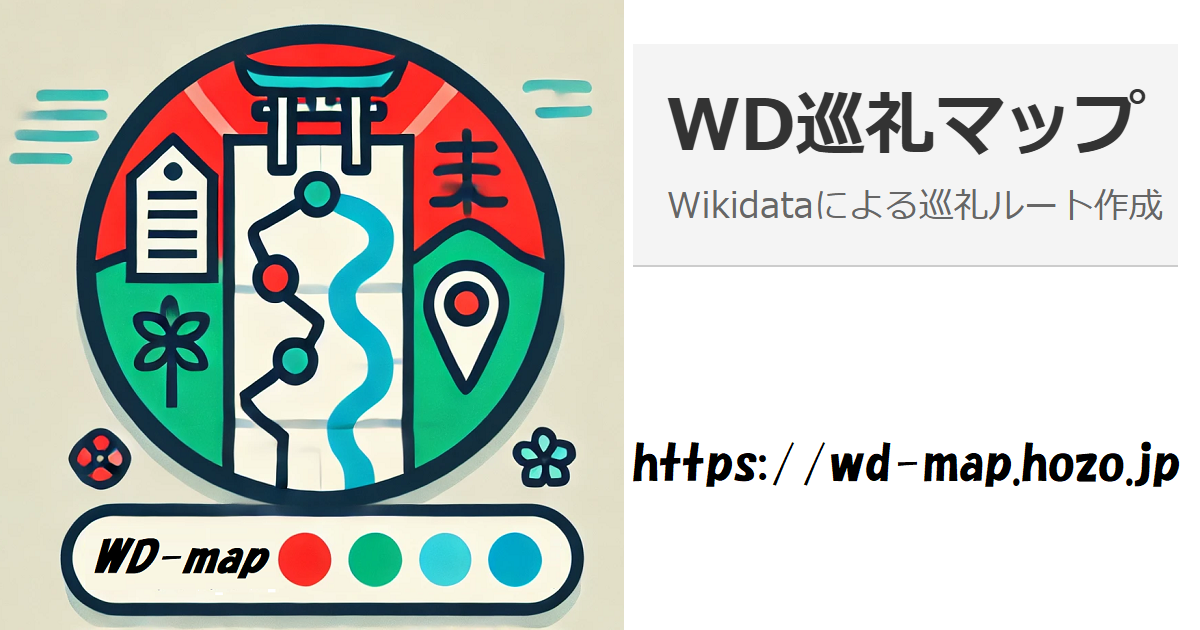
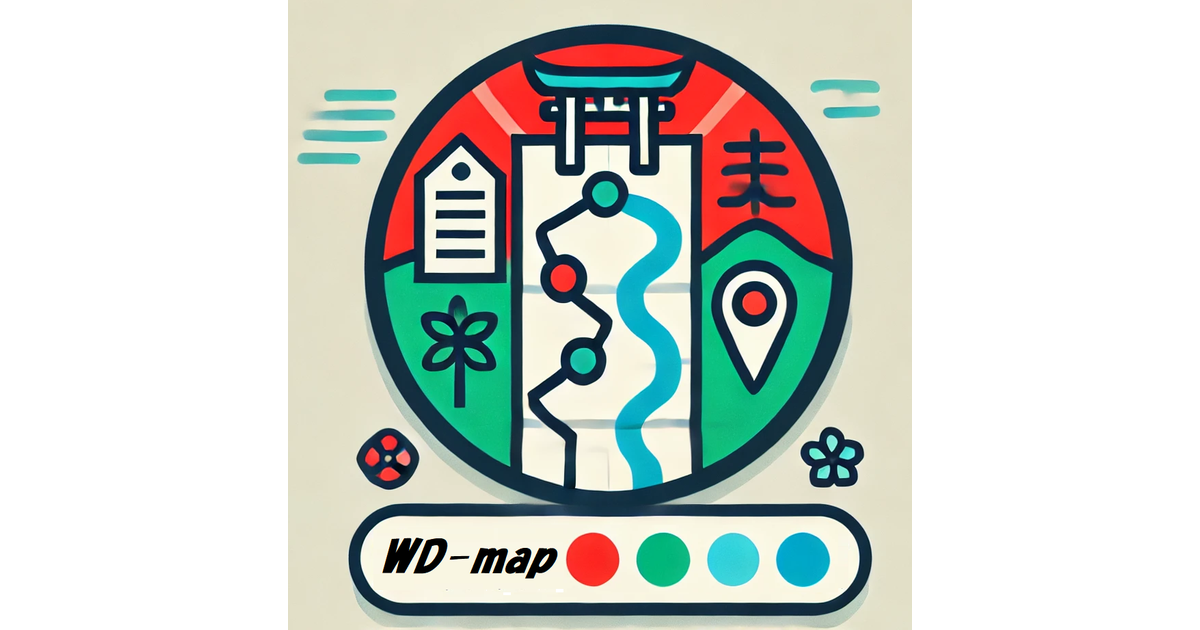
OGP調整

diff --git a/index.html b/index.html
@@ -2,14 +2,14 @@
 <html lang="ja">
 
 <head>
-<meta charset="UTF-8">
-<meta name="viewport" content="width=device-width, initial-scale=1.0">
-<meta http-equiv="X-UA-Compatible" content="ie=edge">
-<title>WD巡礼マップ - Wikidataによる巡礼ルート作成</title>
+    <meta charset="UTF-8">
+    <meta name="viewport" content="width=device-width, initial-scale=1.0">
+    <meta http-equiv="X-UA-Compatible" content="ie=edge">
+    <title>WD巡礼マップ - Wikidataによる巡礼ルート作成</title>
 
-<link rel="icon" href="image/wd-map.ico" type="image/x-icon">
-<link rel="shortcut icon" href="image/wd-map.ico" type="image/x-icon">
-<link rel="apple-touch-icon" href="image/wd-map-icon.png"> <!-- iOS用 -->
+    <link rel="icon" href="image/wd-map.ico" type="image/x-icon">
+    <link rel="shortcut icon" href="image/wd-map.ico" type="image/x-icon">
+    <link rel="apple-touch-icon" href="image/wd-map-icon.png"> <!-- iOS用 -->
 
     <!-- OGPタグ -->
     <meta property="og:title" content="WD巡礼マップ - Wikidataによる巡礼ルート作成">
@@ -27,87 +27,88 @@
     <meta name="twitter:image" content="https://wd-map.hozo.jp/image/WD-map-OGP.png"> <!-- ロゴ画像のURL -->
 
 
-<link rel="stylesheet" href="style.css">
-<script src="js/sparql-min.js"></script> 
-<script src="js/wd-map.js"></script> 
+    <link rel="stylesheet" href="style.css">
+    <script src="js/sparql-min.js"></script>
+    <script src="js/wd-map.js"></script>
 </head>
 
 <body>
-<header id="head"  class="container">
-	<img src="image/WD-map.png" alt="WD-map ロゴ" class="logo">
-    <div class="text-container">
-        <div class="main-title">WD巡礼マップ</div>
-        <div class="sub-title">Wikidataによる巡礼ルート作成</div>
-    </div>
-    <!-- <a href="/how-to-use" class="nav-link">About</a> -->
-</header>
+    <header id="head" class="container">
+        <img src="image/WD-map.png" alt="WD-map ロゴ" class="logo">
+        <div class="text-container">
+            <div class="main-title">WD巡礼マップ</div>
+            <div class="sub-title">Wikidataによる巡礼ルート作成</div>
+        </div>
+        <!-- <a href="/how-to-use" class="nav-link">About</a> -->
+    </header>
 
-<!-- 検索条件設定の領域 -->
-<div id="menu" class="container">
-	<div style="margin-top:4px;">
-        <p>Wikidataに登録されている位置情報をもとに<b>「いろんな分類のMAP」</b>を作成します．<br>
-        →作成例）「<a href="https://w.wiki/BXg9" target="_blank">一の宮マップ</a>」 
-        「<a href="https://w.wiki/BXgq"target="_blank">世界の国際空港</a>」
+    <!-- 検索条件設定の領域 -->
+    <div id="menu" class="container">
+        <div style="margin-top:4px;">
+            <p>Wikidataに登録されている位置情報をもとに<b>「いろんな分類のMAP」</b>を作成します．<br>
+                →作成例）「<a href="https://w.wiki/BXg9" target="_blank">一の宮マップ</a>」
+                「<a href="https://w.wiki/BXgq" target="_blank">世界の国際空港</a>」
+            </p>
+
+            <!-- 生成したMAPリスト表示用の領域 -->
+            <div id="map-list_box" style=" display: none;  ">
+                <h3>作成したMAP</h3>
+                <div id="map-list_div" class="container" style=" display: flex; justify-content: center;">
+                    <ul id="map-list" class="no-bullets">
+                    </ul>
+                    <br>
+                </div>
+                <div style=" display: flex; justify-content: center;">
+                    <button onclick="margeMAP()">選択したMAPの合成</button>
+                    &nbsp;&nbsp;
+                    <button onclick="getMapURL()">QRコードの生成</button>
+                </div>
+            </div>
+            
+            <h3>MAPの作成</h3>
+            下記の入力欄にMAPで表示したいデータの<b>「分類」</b>(空港，大学，など)，または，<b>「具体例」</b>（出雲大社，関西国際空港，など）を入力して検索してください．<br>
+            <div style="text-align: center;">
+                <input id="INPUT" type="text" value="空港" autocomplete="off" size="20" />
+                <input type="button" id="send" value="検索の実行" style="margin-top:8px; "><br>
+                <!-- ラベルの検索設定:<br> -->
+                <label><input type="radio" id="LabelFull" name="labelType" value="full" checked>完全一致</label>
+                <label><input type="radio" id="LabelForward" name="labelType" value="forward">前方一致</label>
+                <label><input type="radio" id="LabelAmbi" name="labelType" value="ambi">あいまい検索</label>
+                <br>
+                <input type="checkbox" id="onlyJP" checked>生成するMAPを「日本国内」に限定する</input>
+            </div>
+        </div>
+
+
+        <!-- 結果表示用の領域 -->
+        <div id="result_box" style=" display: none;">
+
+            <div id="result_div" class="container" style="flex: 1;"></div>
+        </div>
+        <hr>
+        <p style="text-align: center;">
+            【<a href="doc/WikidataMapVIS_HowTo.pdf" target="_blank">使い方</a>】
+            【<a href="https://qiita.com/koujikozaki/items/197db0dfc555d57338c6" target="_blank">技術解説</a>】
+            【<a href="https://github.com/oecu-kozaki-lab/WikidataMapVIS" target="_blank">ソースコード</a>】
         </p>
 
-<!-- 生成したMAPリスト表示用の領域 -->
-<div id="map-list_box" style=" display: none;  ">
-<h3>作成したMAP</h3>
-    <div id="map-list_div"  class="container" style="flex: 1;">
-        <ul id="map-list" class="no-bullets">
-        </ul>
-        <br>
-        <button onclick="margeMAP()">選択したMAPの合成</button>
-        &nbsp;&nbsp;
-        <button onclick="getMapURL()">QRコードの生成</button>     
-    </div>
-</div>
-
-    <h3>MAPの作成</h3>
-        下記の入力欄にMAPで表示したいデータの<b>「分類」</b>(空港，大学，など)，または，<b>「具体例」</b>（出雲大社，関西国際空港，など）を入力して検索してください．<br>
-        <div style="text-align: center;">
-            <input id="INPUT" type="text" value="空港" autocomplete="off" size="20"/>
-            <input type="button" id="send" value="検索の実行" style="margin-top:8px; "><br>
-            <!-- ラベルの検索設定:<br> -->
-            <label><input type="radio" id="LabelFull" name="labelType" value="full" checked>完全一致</label>
-            <label><input type="radio" id="LabelForward" name="labelType" value="forward">前方一致</label>
-            <label><input type="radio" id="LabelAmbi" name="labelType" value="ambi">あいまい検索</label>
-            <br>
-        <input type="checkbox" id="onlyJP" checked>生成するMAPを「日本国内」に限定する</input>
-        </div>
-	</div>
-    
-
-<!-- 結果表示用の領域 -->
-	<div id="result_box" style=" display: none;">
-         
-		<div id="result_div"  class="container" style="flex: 1;"></div>
-	</div>
-<hr> 
-    <p style="text-align: center;">
-        【<a href="doc/WikidataMapVIS_HowTo.pdf" target="_blank">使い方</a>】 
-        【<a href="https://qiita.com/koujikozaki/items/197db0dfc555d57338c6" target="_blank">技術解説</a>】
-        【<a href="https://github.com/oecu-kozaki-lab/WikidataMapVIS" target="_blank">ソースコード</a>】
-    </p>
-
-<!-- 下記の「クエリの表示・非表示」ボタンは，必要がなければコメントアウトしてもよい  -->
-<div style="margin-top:4px;">
-	<input type="button" id="dis_b" value="詳細設定の表示" style=" display:none"
-		onclick="document.getElementById('query').style.display = 'block';
+        <!-- 下記の「クエリの表示・非表示」ボタンは，必要がなければコメントアウトしてもよい  -->
+        <div style="margin-top:4px;">
+            <input type="button" id="dis_b" value="詳細設定の表示" style=" display:none" onclick="document.getElementById('query').style.display = 'block';
 		document.getElementById('dis_b').style.display = 'none';
 		document.getElementById('none_b').style.display = 'none';">
-	<input type="button" id="none_b"  value="詳細設定の非表示" style="display:none"
-		onclick="document.getElementById('query').style.display = 'none';
+            <input type="button" id="none_b" value="詳細設定の非表示" style="display:none" onclick="document.getElementById('query').style.display = 'none';
 		document.getElementById('dis_b').style.display = 'block';
 		document.getElementById('none_b').style.display = 'none';">
-</div>
-<!-- 検索の設定 -->
-	<div id="query" style="display:none">
-        <B>Endpoint:</B>
-        <input id="ENDPOINT" type="text" value="https://query.wikidata.org/sparql" autocomplete="off" size="40"/><br>
-		<b>データ検索用のクエリ（置き換え前）</b>：<br>
-→下記のクエリ内の<B>#IDs#</B>と<B>#IDcls#</B>の部分を，上記の入力内容をもとに置き換えて検索します．<br>
-<textarea id="query_area" class="t_area" rows="10">
+        </div>
+        <!-- 検索の設定 -->
+        <div id="query" style="display:none">
+            <B>Endpoint:</B>
+            <input id="ENDPOINT" type="text" value="https://query.wikidata.org/sparql" autocomplete="off"
+                size="40" /><br>
+            <b>データ検索用のクエリ（置き換え前）</b>：<br>
+            →下記のクエリ内の<B>#IDs#</B>と<B>#IDcls#</B>の部分を，上記の入力内容をもとに置き換えて検索します．<br>
+            <textarea id="query_area" class="t_area" rows="10">
 SELECT DISTINCT ?item ?itemLabel ?class ?classLabel ?kind
 WHERE {
 {  #IDs#  
@@ -163,14 +164,14 @@ SERVICE wikibase:label { bd:serviceParam wikibase:language "ja, en". }
 }ORDER BY ?class
 LIMIT 50    
 </textarea><br>
-		<b>データ検索用のクエリ（置き換え後）</b>：<br>					
-		<textarea id="query_area2" class="t_area" rows="10" ></textarea><br>
-		<b>データ検索用のクエリの実行結果(JSON形式）</b>：<br>
-		<textarea id="resjson_area"  class="t_area" rows="10" ></textarea>
-        <br>
-        <b>MAP生成用のクエリ</b>：<br>
-        →下記のクエリ内の<B>#GET-LIST#</B>の部分を，データ検索結果から選択した「分類」に置き換えて検索します．<br>
-<textarea id="query_for_map" class="t_area" rows="10">
+            <b>データ検索用のクエリ（置き換え後）</b>：<br>
+            <textarea id="query_area2" class="t_area" rows="10"></textarea><br>
+            <b>データ検索用のクエリの実行結果(JSON形式）</b>：<br>
+            <textarea id="resjson_area" class="t_area" rows="10"></textarea>
+            <br>
+            <b>MAP生成用のクエリ</b>：<br>
+            →下記のクエリ内の<B>#GET-LIST#</B>の部分を，データ検索結果から選択した「分類」に置き換えて検索します．<br>
+            <textarea id="query_for_map" class="t_area" rows="10">
 #defaultView:Map{"hide":["?loc","?layer"]}
 SELECT ?item ?itemLabel ?loc ?layer
     (URI(CONCAT("https://kgs.hozo.jp/sample/details.html?key=",str(?item))) AS ?detail)
@@ -196,8 +197,9 @@ WHERE {
 }
 GROUP BY ?item ?itemLabel ?loc ?layer
 LIMIT 100000
-</textarea>		
-	</div>
-</div>
+</textarea>
+        </div>
+    </div>
 </body>
+
 </html>

diff --git a/qr.html b/qr.html
@@ -96,6 +96,26 @@
           <button onclick="margeMAP()">選択したMAPの合成</button>
           &nbsp;&nbsp;
           <button onclick="getMapURL()">QRコードの生成</button>
+          <!-- X (Twitter) シェアボタン -->
+    <a href="https://twitter.com/intent/tweet?text=WD巡礼マップ - Wikidataによる巡礼ルート作成&url=https://wd-map.hozo.jp/" 
+    target="_blank" 
+    style="text-decoration: none; font-size: 16px; padding: 10px; background-color: #1DA1F2; color: white; border-radius: 5px; display: inline-block; margin: 5px;">
+     X (Twitter)でシェア
+ </a>
+
+ <!-- Facebook シェアボタン -->
+ <a href="https://www.facebook.com/sharer/sharer.php?u=https://wd-map.hozo.jp/" 
+    target="_blank" 
+    style="text-decoration: none; font-size: 16px; padding: 10px; background-color: #1877F2; color: white; border-radius: 5px; display: inline-block; margin: 5px;">
+     Facebookでシェア
+ </a>
+
+ <!-- LINE シェアボタン -->
+ <a href="https://social-plugins.line.me/lineit/share?url=https://wd-map.hozo.jp/" 
+    target="_blank" 
+    style="text-decoration: none; font-size: 16px; padding: 10px; background-color: #00C300; color: white; border-radius: 5px; display: inline-block; margin: 5px;">
+     LINEでシェア
+ </a>
         </div>
       </div>
 
